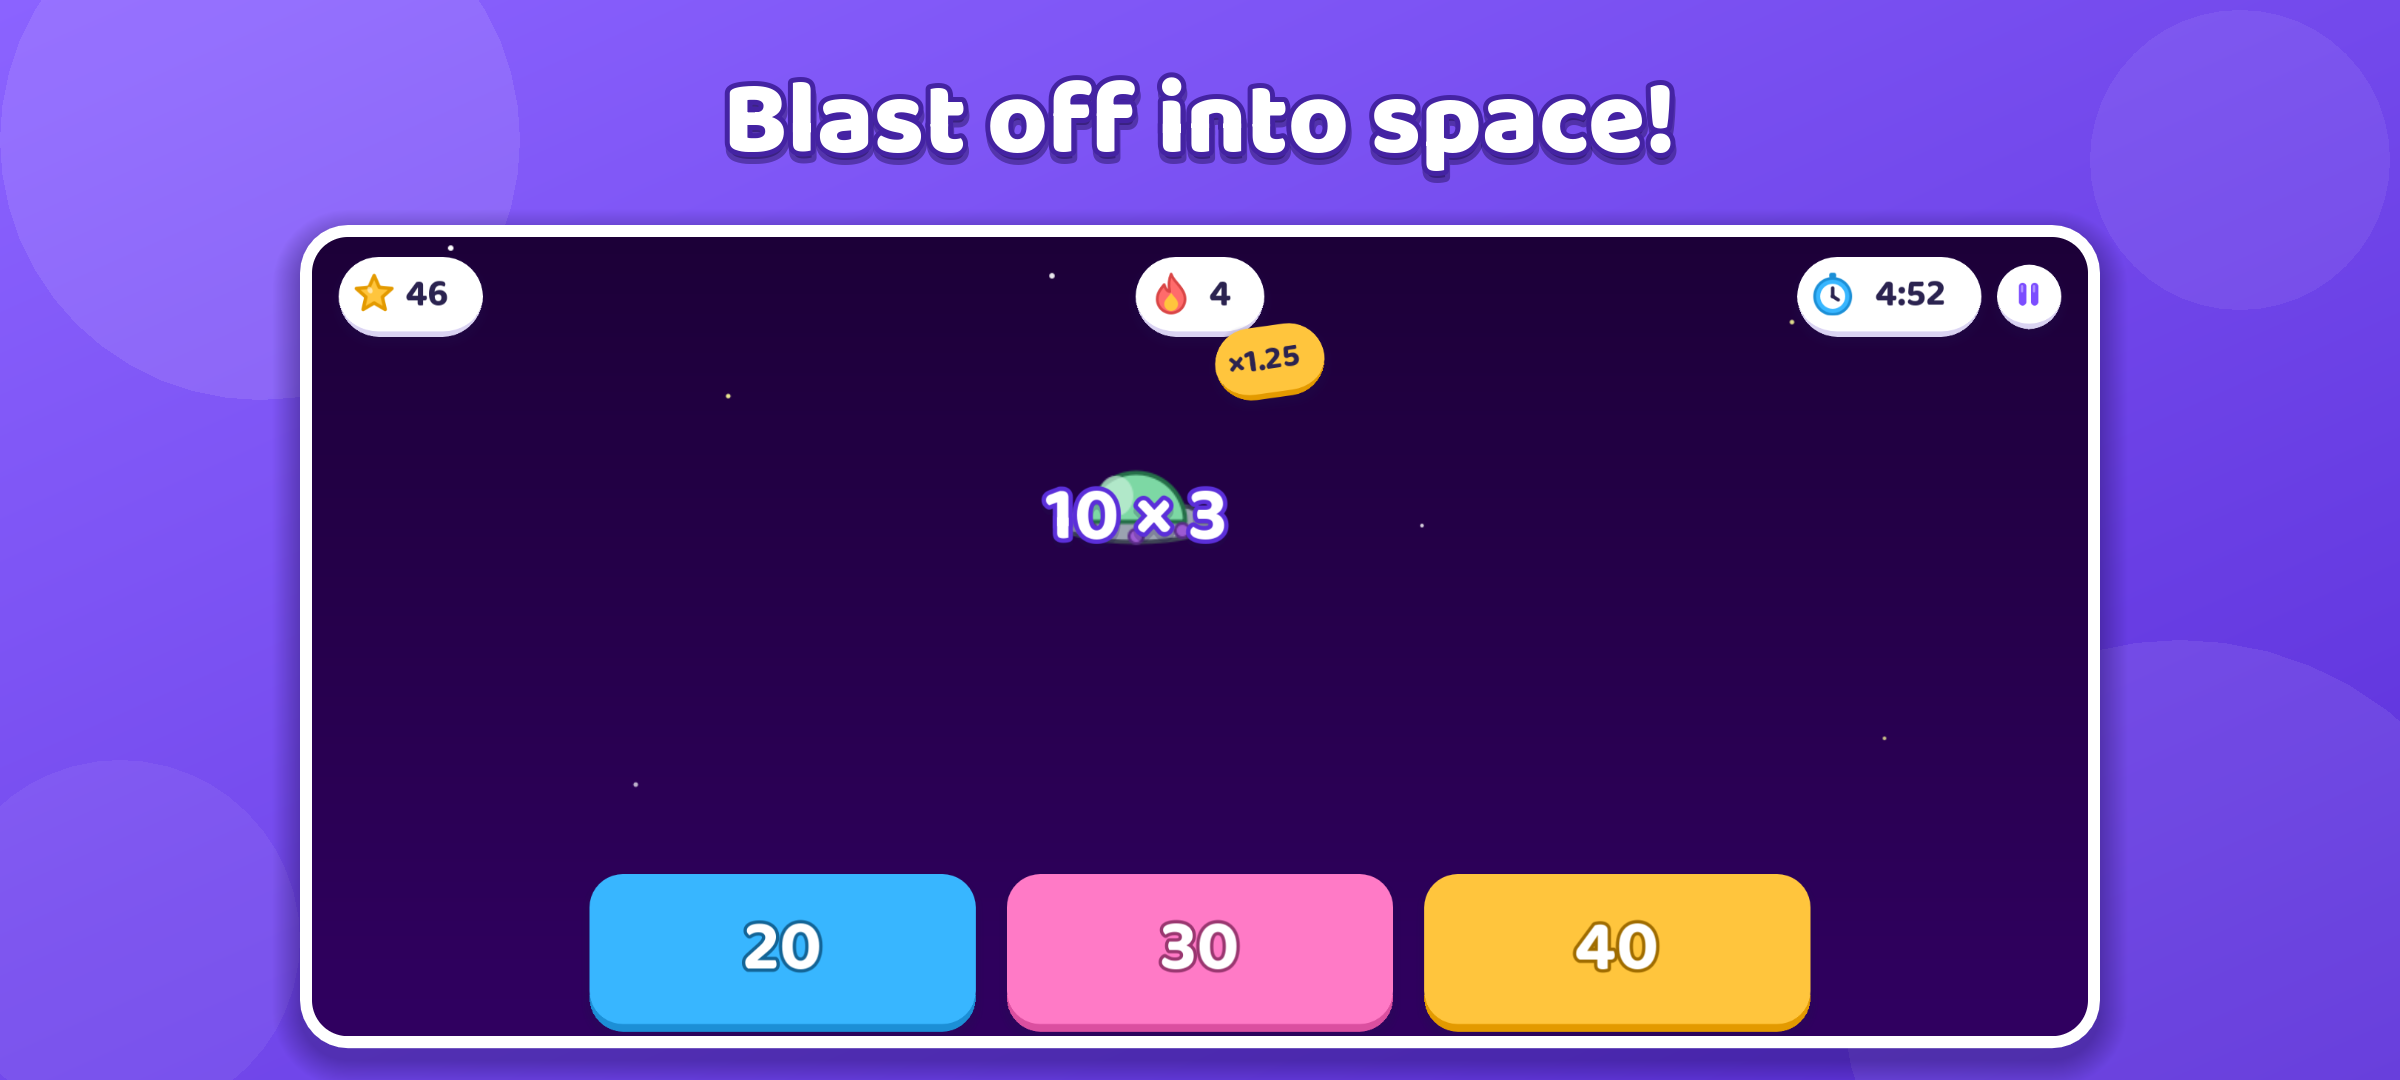
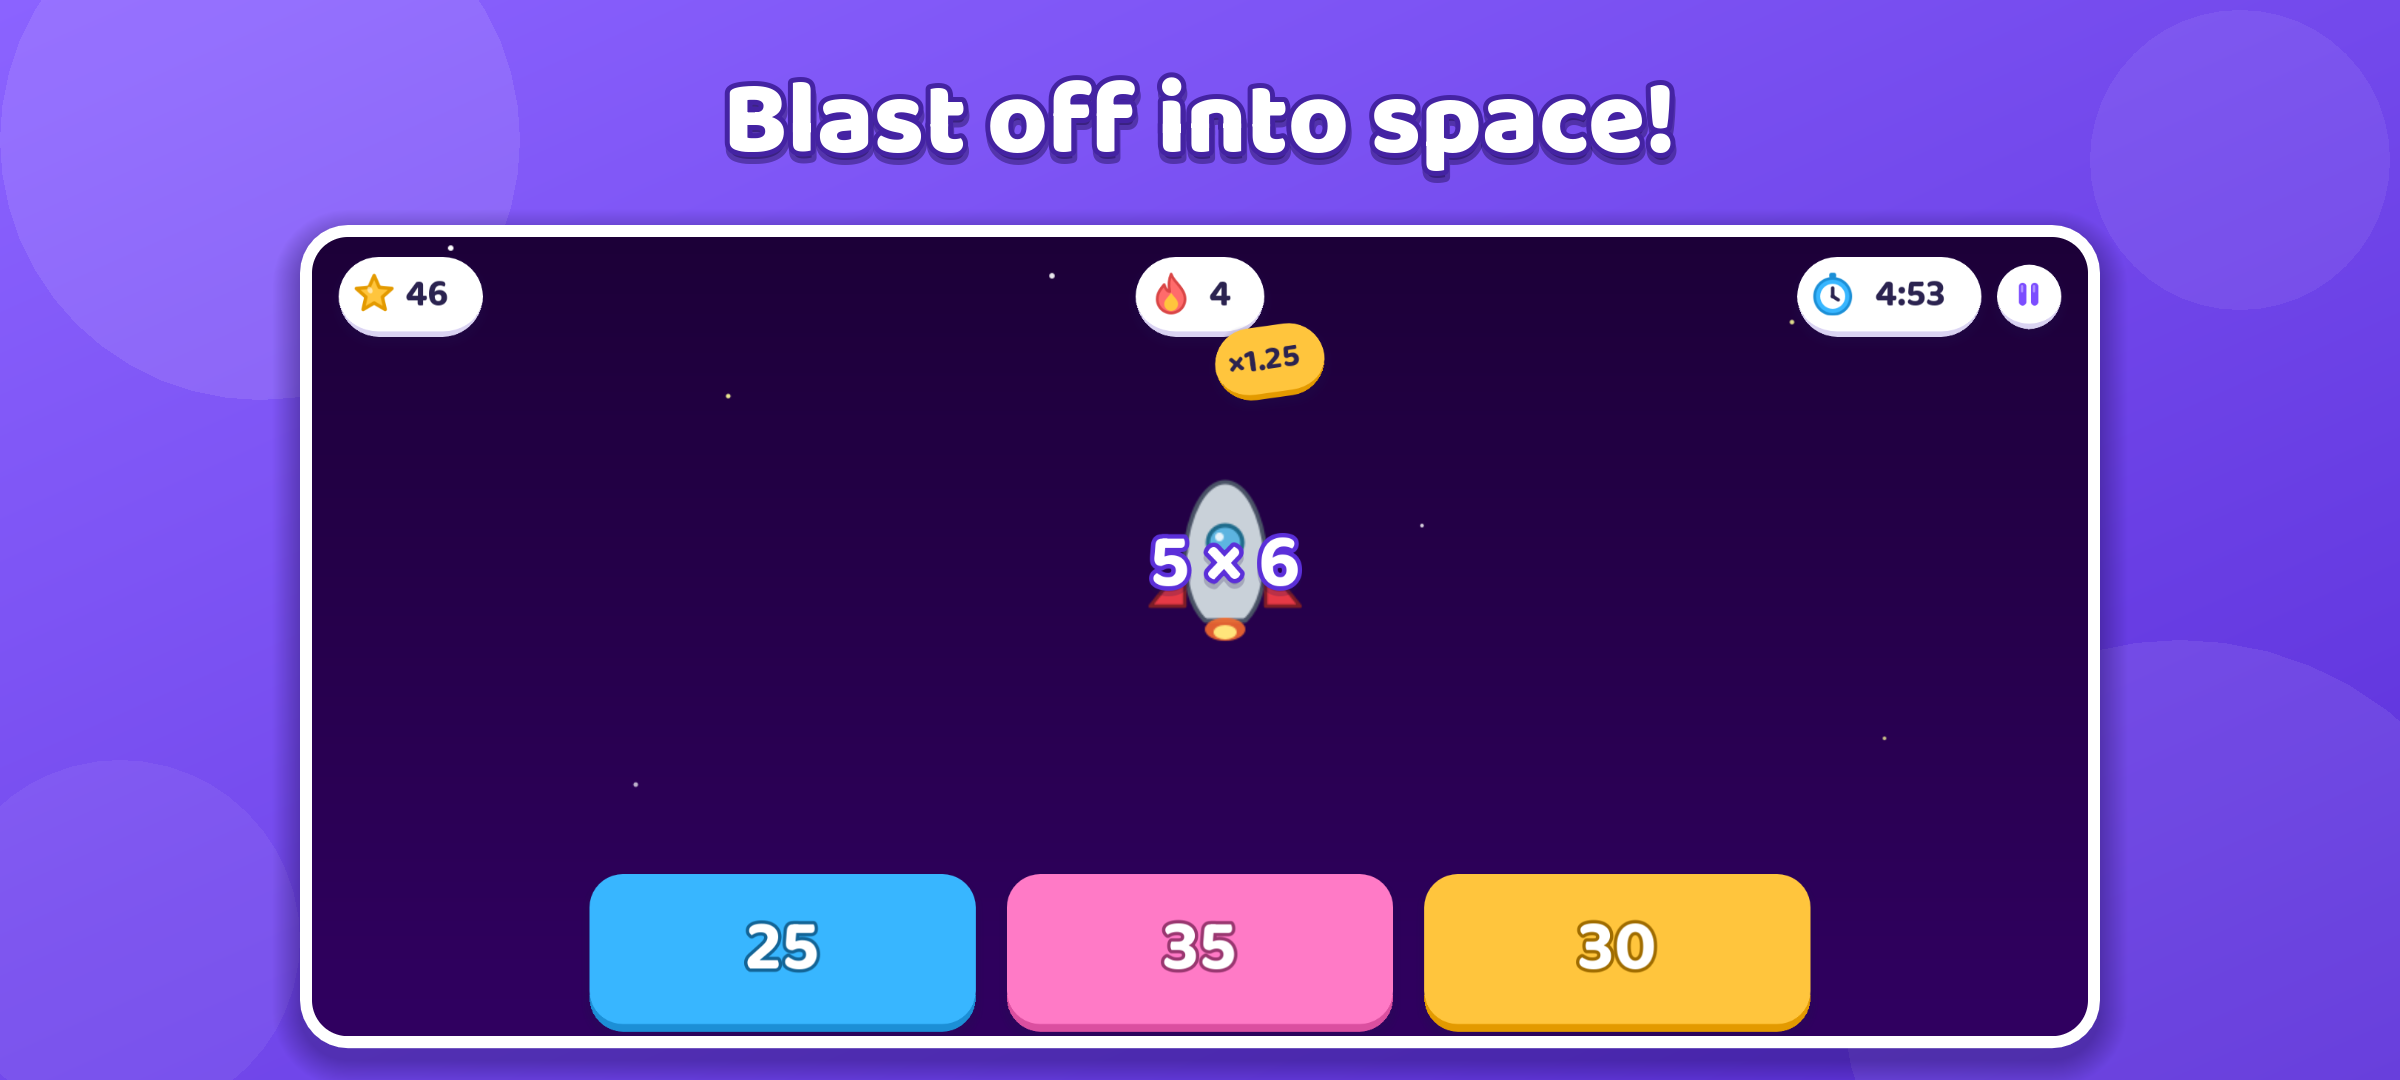
Refresh store screenshots: reward card on results, skills on progress
Re-captured every phone (EN/CS) and tablet screenshot with the current
build: results now show the translated 10-in-a-row reward card, "My
progress" shows "Let's practise these" and the per-skill bars (seeded via
ProgressStore), and gameplay/theme shots skip trivial problems (no more
"0 - 0" in the Czech space shot). Framed set regenerated; results caption
now mentions rewards. README describes the new seeding procedure.

diff --git a/store/graphics/README.md b/store/graphics/README.md
@@ -19,19 +19,21 @@ limits (each side 320–3840 px, aspect ratio ≤ 2:1).
 1. `01_menu` — main menu with the Mathling mascot and the Play button.
 2. `02_gameplay` — mid-round: a falling sum, three colourful answer buttons, streak + ×1.5 combo sticker.
 3. `03_burst` — the moment a correct answer pops the fruit (+15 ×1.5 points, mint flash).
-4. `04_results` — results: 3 stars, cheering mascot, accuracy and best streak, confetti.
-5. `05_stats` — "My progress" with a week of play.
+4. `04_results` — results: 3 stars, cheering mascot, accuracy and best streak, confetti
+   and the "New reward!" card (10 in a row, no mistakes).
+5. `05_stats` — "My progress" scrolled to "Let's practise these" and the "My skills"
+   bars (two skills mastered, two in progress; tablets show a third mastered skill).
 6. `06_space` — the space theme.
 7. `07_party` — the party theme (balloons float up).
 
 Play accepts up to 8 phone screenshots; drop 07 if you prefer the 6-shot story.
 
 Tablets (7" and 10") use the same key screens: menu, gameplay, results, progress.
-The Czech set (`phone_cs/`) has the same story; its results screen also shows the
-"Nová odměna!" reward card (10-in-a-row badge).
+The Czech set (`phone_cs/`) has the same story (results with the "Nová odměna!" card).
 
 All screenshots are real, unedited frames of the game (profile names "Mia" / "Ema"
-are neutral example names; the play history on the progress screen was seeded).
+are neutral example names; the play history and per-skill numbers on the progress
+screen were seeded).
 
 ## Regenerating
 
@@ -73,37 +75,36 @@ design) that ran against a scratch copy of the project with an `override.cfg`
 (`application/config/use_custom_user_dir=true` + an extra autoload), so the
 desktop user data of the real project was never touched. Per run it:
 
-1. creates a profile ("Mia" for en, "Ema" for cs), sets the locale, turns sound off,
-   sets the round length to 5 min (a real Settings option, so there are
-   enough problems to find a clean burst frame; the setting is restored to 2 min) and seeds six earlier
-   rounds into `SessionStatsStore`;
-2. opens the main menu (blanks the "+debug" version label) and captures it;
-3. starts `game.tscn` with the fruit theme and answers through the scene's own
+1. creates a profile ("Mia" for en, "Ema" for cs) via `ProfileService`, sets the
+   locale, turns sound off, sets the round length to 5 min (a real Settings
+   option, so there are enough problems to find a clean burst frame; restored
+   to 2 min afterwards) and the enabled skills (add/sub to 20, ×2, ×5; tablets
+   also ×10); seeds six earlier 2-minute rounds on six earlier days into both
+   `SessionStatsStore.record_session` (stat tiles) and
+   `ProgressStore.record_round` (round history), and unlocks the space and
+   party themes on earlier days (`ProgressStore.unlock`) so the results screen
+   shows only the streak reward;
+2. seeds per-skill aggregates with `ProgressStore.set_skill` (+ `flush`):
+   add to 20 61/64, ×2 47/51, (×10 44/46), subtraction to 20 41/56, ×5 26/38;
+3. opens the main menu (blanks the "+debug" version label) and captures it;
+4. starts `game.tscn` with the fruit theme and answers through the scene's own
    answer handler (`_on_answer_pressed` with the controller's `correct_index`)
-   until a ×1.5 combo is running, captures the falling problem, then keeps
-   answering until the next spawned problem shows the previous answer on the
-   same button (so the mint "correct" button matches the exploding sum) and
-   captures the burst; the rest of the round is fast-forwarded with
-   `Engine.time_scale`; in English one answer in nine is wrong so the best
-   streak stays below 10 (see the note below), in Czech one in fourteen
-   (best streak 13, so the 10-in-a-row reward appears);
-4. captures the results screen ~1.9 s in (stars landed, confetti falling),
-   then "My progress", then a space-theme and a party-theme round; a round
-   paused by the desktop window losing focus is resumed automatically;
-5. converts every frame to RGB8 and saves it.
+   until a ×1.5 combo is running; trivial problems (an operand 0/1, result < 3)
+   are answered and skipped so the captured problem is meaningful; captures the
+   falling problem, then keeps answering until the next spawned problem shows
+   the previous answer on the same button (mint "correct" button matches the
+   exploding sum) and captures the burst; the rest of the round is
+   fast-forwarded with `Engine.time_scale`, one answer in fourteen wrong
+   (best streak ≥ 10, so the "10 in a row" reward card appears);
+5. captures the results screen ~1.9 s in (stars landed, confetti falling);
+   re-applies the seeded skill numbers (the real round also updates them),
+   opens "My progress" and scrolls it to the end (practice + skills cards);
+   then a space-theme and a party-theme round; a round paused by the desktop
+   window losing focus is resumed automatically;
+6. converts every frame to RGB8 and saves it.
 
 Resolutions: `godot --path . --resolution 2400x1080` (phone),
 `1920x1200` (7"), `2560x1600` (10"). Tablet files are the phone story's
 01/02/04/05 frames, renumbered 01–04.
-
-## Known caveats (game-side, not fixed here)
-
-- When these shots were taken the 10-in-a-row reward label was hard-coded in
-  Czech, so the English results shot deliberately has no reward card. Reward
-  names are translated now (`UNLOCK_*` keys); `04_results` can be re-captured
-  with a flawless round.
-- These shots were taken while per-skill progress was not persisted, so the
-  "My skills" card only says "Skill details appear after a few rounds." Skills
-  are now stored (DESIGN.md §6.1); re-capture the progress shot to show them.
 
 Total size of all PNGs in this folder: about 7 MB (PNG as rendered, no lossy compression).
